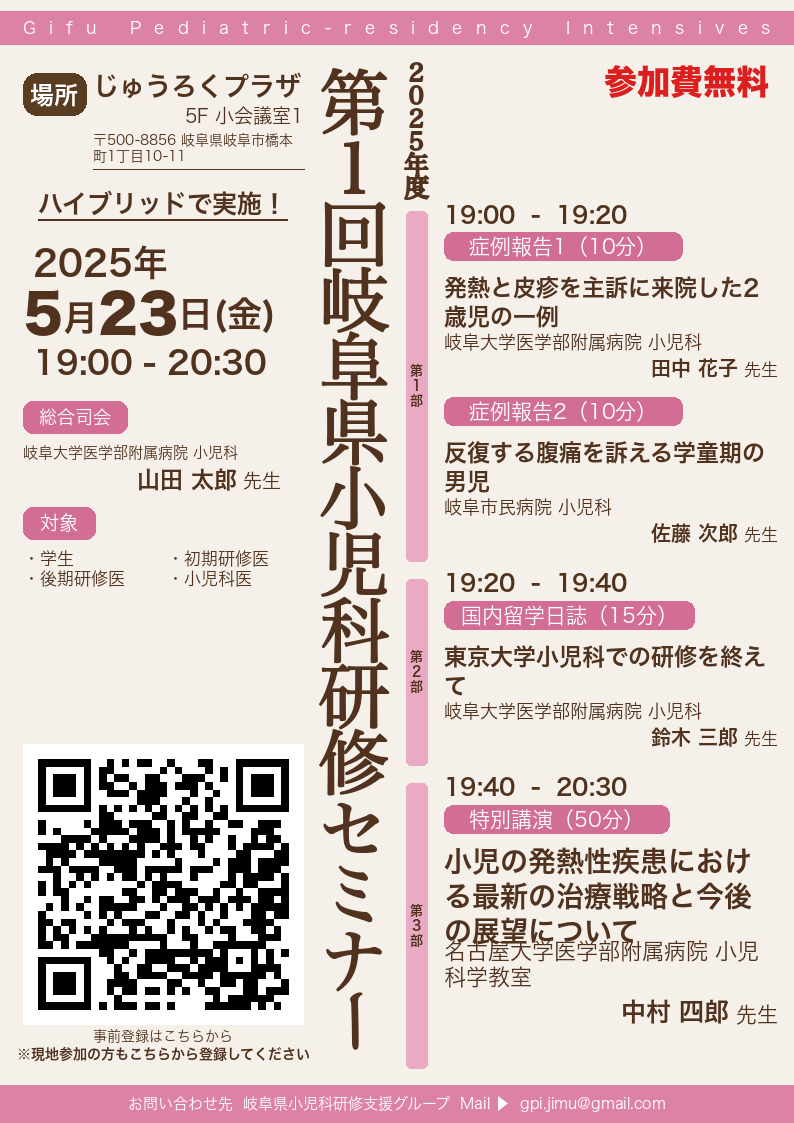
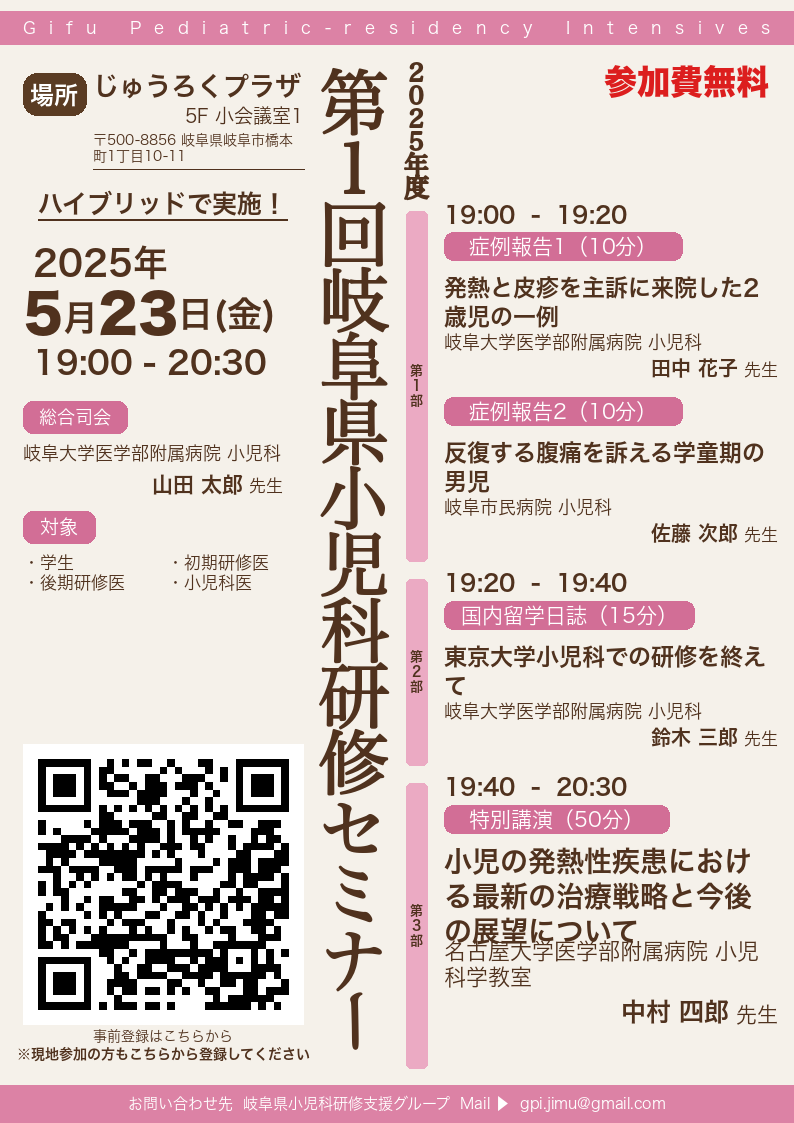
Add layout constants for PDF rendering and update poster rendering logic to apply content scales for MC and chair sections

Changed region(s): [[0.0302, 0.374, 0.3627, 0.5298], [0.2116, 0.4675, 0.3325, 0.5298]]

diff --git a/poster/layout.py b/poster/layout.py
@@ -211,6 +211,48 @@ class LayoutEngine:
         return blocks
 
 
+# ─── pdf_renderer.py 後方互換エイリアス ──────────────────────────────────
+
+LEFT_COL_X    = 0.0
+LEFT_COL_W    = LEFT_W
+DIVIDER_X     = TITLE_X
+DIVIDER_W     = TITLE_W
+RIGHT_COL_X   = PROG_X
+
+LC_MARGIN_X   = LC_PAD_L
+LC_W          = LEFT_W - LC_PAD_L - LC_PAD_R
+
+RC_MARGIN_X   = PROG_PAD_L
+RC_W          = PROG_W - PROG_PAD_L - PROG_PAD_R
+
+MARGIN_TOP    = HEADER_TOP + HEADER_H
+MARGIN_BOTTOM = FOOTER_H
+
+TITLE_STRIP_X = TITLE_X
+TITLE_STRIP_W = TITLE_W
+
+DATE_AREA_Y   = HEADER_TOP + HEADER_H + 0.020
+DATE_AREA_H   = 0.150
+
+PROGRAM_TOP   = PROG_TOP
+PROGRAM_BOT   = PROG_BOT
+
+BASHO_BADGE_R = BASHO_BH / 2.0   # 正規化半径
+
+BADGE_LG_W    = BASHO_BW
+BADGE_LG_H    = BASHO_BH
+BADGE_SM_W    = 0.250
+
+FS_DATE       = FS_DATE_BIG
+FS_TIME       = FS_TIME_LC
+FS_TITLE      = FS_V_TITLE
+FS_BADGE_LG   = FS_MC_BADGE
+FS_BADGE_SM   = FS_PROG_BADGE
+FS_SECTION_H  = FS_PROG_TITLE
+FS_VENUE      = FS_VENUE_BIG
+FS_AUDIENCE   = FS_AUD
+FS_MC         = FS_MC_NAME
+
 # ─── ヘルパー変換 ────────────────────────────────────────────────────────
 
 def n_to_px(value: float, axis: str = "h") -> int:

diff --git a/poster/preview_renderer.py b/poster/preview_renderer.py
@@ -28,6 +28,7 @@ from poster.layout import (
     FS_PROG_TIME, FS_PROG_BADGE, FS_PROG_TITLE,
     FS_PRESENTER, FS_PRES_NAME, FS_SANSHUUHI,
     FS_V_TITLE,
+    SECTION_CONTENT_SCALES,
 )
 from poster.elements_pillow import (
     draw_header_bar, draw_footer_bar,
@@ -162,12 +163,17 @@ def render_poster(data: PosterData, scale: float = 1.0) -> Image.Image:
     )
     cur_y += date_h + ph(0.018)
 
+    # 第1部・第2部と同じコンテンツスケールを司会・座長にも適用
+    _mc_cs = SECTION_CONTENT_SCALES[0]
+    _fs_mc_aff  = ph(FS_PRESENTER * _mc_cs)
+    _fs_mc_name = ph(FS_PRES_NAME * _mc_cs)
+
     # 総合司会
     if data.mc:
         mc_h = draw_mc_section(
             draw, lc_x, cur_y, lc_w,
             "総合司会", data.mc, theme,
-            ph(FS_MC_BADGE), ph(FS_MC_AFF), ph(FS_MC_NAME)
+            ph(FS_MC_BADGE), _fs_mc_aff, _fs_mc_name
         )
         cur_y += mc_h + ph(0.012)
 
@@ -176,7 +182,7 @@ def render_poster(data: PosterData, scale: float = 1.0) -> Image.Image:
         chair_h = draw_mc_section(
             draw, lc_x, cur_y, lc_w,
             data.chair_label, data.chair, theme,
-            ph(FS_MC_BADGE), ph(FS_MC_AFF), ph(FS_MC_NAME)
+            ph(FS_MC_BADGE), _fs_mc_aff, _fs_mc_name
         )
         cur_y += chair_h + ph(0.012)
 
